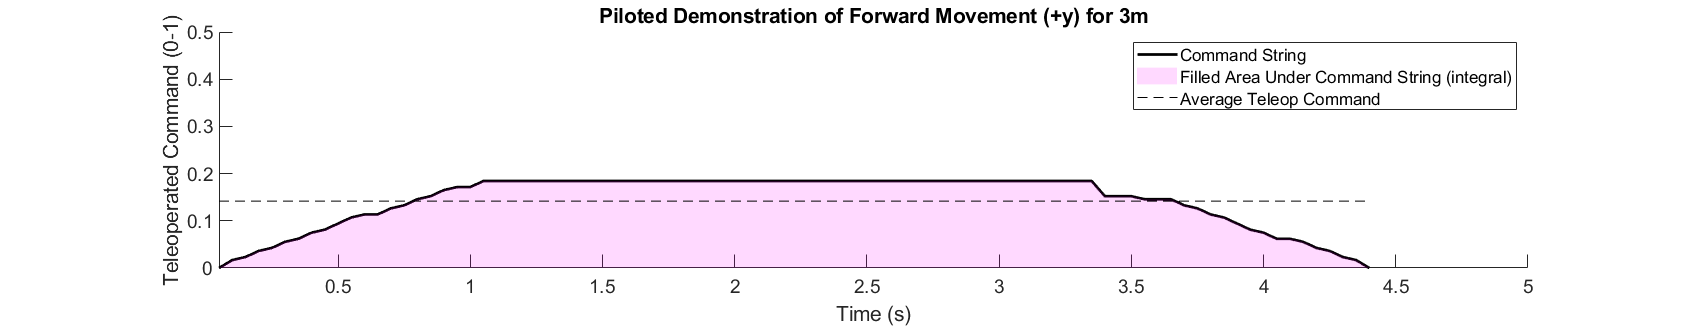
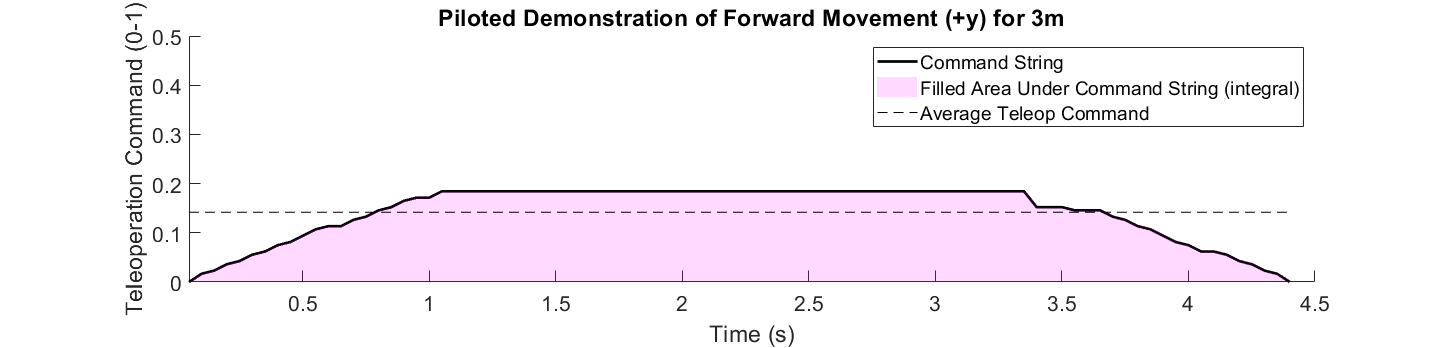
Updates from Overleaf

diff --git a/root.tex b/root.tex
@@ -227,13 +227,12 @@ Through observation of a single demonstrated trial, we are able to identify impo
 
 \begin{figure}[h]
 	\centering
-	\subfigure[Sample of a Single Demonstration\label{fig:sampleintegral}]{\includegraphics[width=0.8\linewidth]{sampleintegral.png}}
-	\subfigure[Sample Trajectory\label{fig:sampt}]{\includegraphics[width=0.8\linewidth]{sampletrajectory.png}}
-	\subfigure[Sample Velocity\label{fig:sampv}]{\includegraphics[width=0.8\linewidth]{samplevelocity.png}}
-	\caption{Sample Demonstration Trajectory and Velocity}
+	\subfigure[Sample of a Single Demonstration\label{fig:sampleintegral}]{\includegraphics[width=1\linewidth]{sampleintegral.png}}
+	\subfigure[Sample Trajectory\label{fig:sampt}]{\includegraphics[width=1\linewidth]{sampletrajectory.png}}
+	\subfigure[Sample Velocity\label{fig:sampv}]{\includegraphics[width=1\linewidth]{samplevelocity.png}}
+	\caption{Sample Demonstration, Trajectory, and Velocity}
 	\label{fig:samps}
 \end{figure}
-
 
 
 %\NB{make these figures long and short and aligned vertically }
